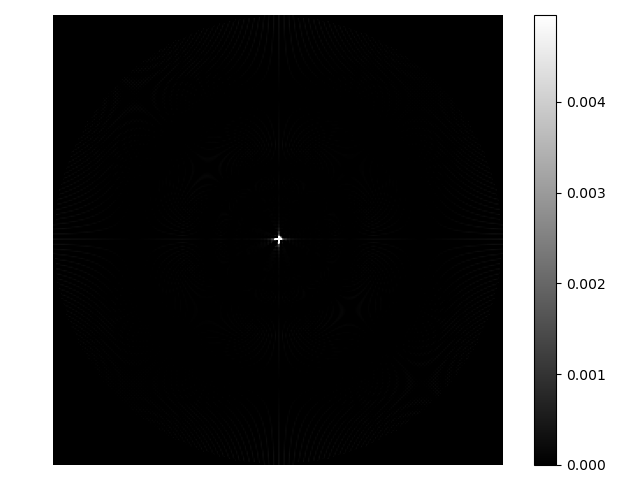
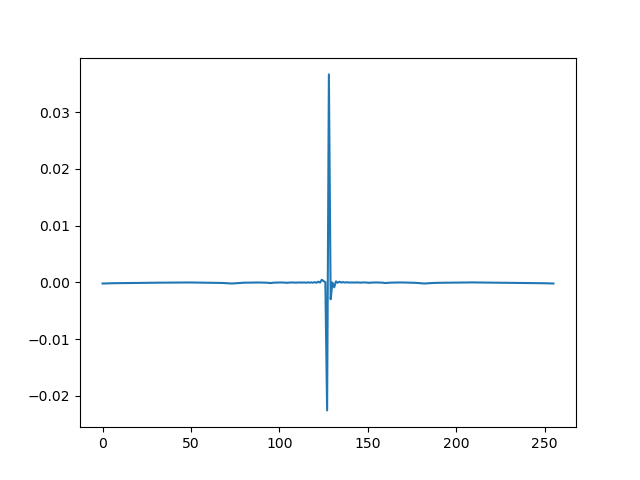
Update test 5 add alpha test 6

diff --git a/ct_test_example.py b/ct_test_example.py
@@ -89,7 +89,7 @@ def test_4():
         save_draw(y, 'results', f'test_4_reconstruction_{angle}', caxis=[0,0.05*np.max(y)])
         
 def test_5(): 
-    """ Test 5: Investigate the Effect of Interpolation 
+    """ Test 5: Investigate the Effect of Different Interpolation Methods and Orders
     """
     mat = Material()
     src = Source()
@@ -101,18 +101,39 @@ def test_5():
     orders = [0, 1, 3]
     for order in orders:
         y = scan_and_reconstruct(s, mat, p, 0.1, 256)
-        save_draw(y, 'results', f'test_5_reconstruction_order_{order}', caxis=[0,0.05*np.max(y)])
+        # save_draw(y, 'results', f'test_5_reconstruction_order_{order}', caxis=[0,0.05*np.max(y)])
+        save_plot(y[128,:], 'results', f'test_5_reconstruction_order_{order}')
     
     y_lin = scan_and_reconstruct(s, mat, p, 0.1, 256, use_filter=True, order=1, skip=1, use_interp1d=True)
-    save_draw(y_lin, 'results', 'test_5_reconstruction_linear', caxis=[0,0.05*np.max(y_lin)])
-     
+    # save_draw(y_lin, 'results', 'test_5_reconstruction_linear', caxis=[0,0.05*np.max(y_lin)])
+    save_plot(y_lin[128,:], 'results', 'test_5_reconstruction_linear')
+
+def test_6():
+    """ Test 6: Investigate the Effect of Alpha in Ramp Filter
+    """
+    mat = Material()
+    src = Source()
+    p = ct_phantom(mat.name, 256, 2)
+    s = fake_source(src.mev, 0.1, method='ideal')
+    save_draw(p, 'results', 'test_6_phantom')
+    
+    alphas = [0.001, 0.01, 0.1, 0.5, 1.0, 5.0]
+    for alpha in alphas:
+        y = scan_and_reconstruct(s, mat, p, 0.1, 256, use_filter=True, alpha=alpha)
+        # save_draw(y, 'results', f'test_6_reconstruction_alpha_{alpha}', caxis=[0,0.05*np.max(y)])
+        alpha_str = str(alpha).replace('.', '_')
+        save_plot(y[128,:], 'results', f'test_6_reconstruction_alpha_{alpha_str}')
+        
+        
 # print('Test 1')
 # test_1()
 # print('Test 2')
 # test_2()
 # print('Test 3')
 # test_3()
-print('Test 4')
-test_4()
-print('Test 5')
-test_5()
+# print('Test 4')
+# test_4()
+# print('Test 5')
+# test_5()
+print('Test 6')
+test_6()